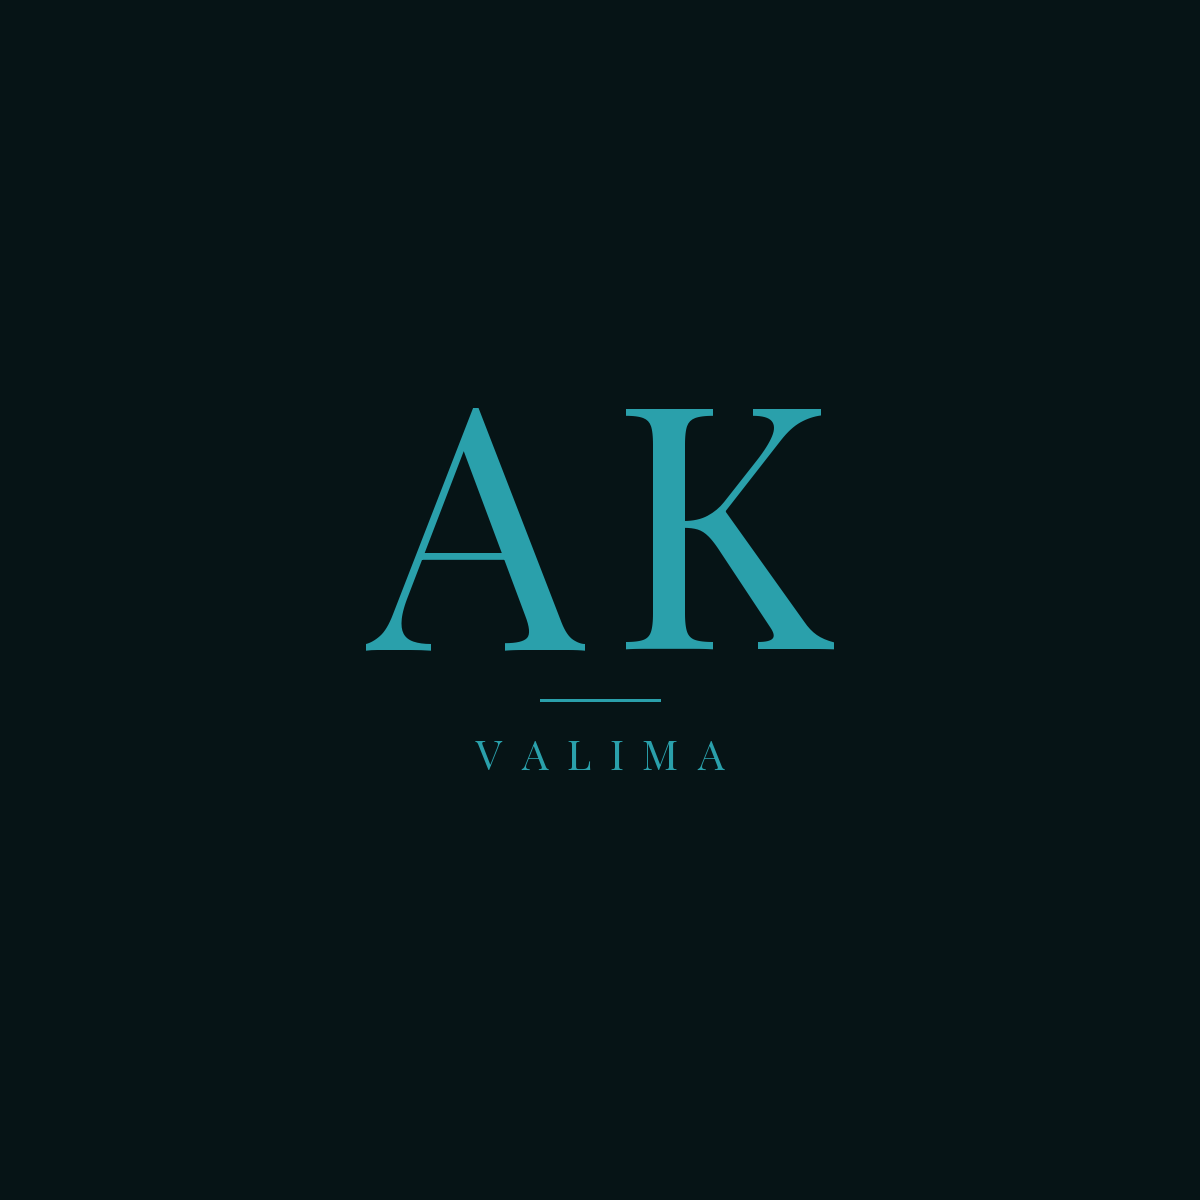
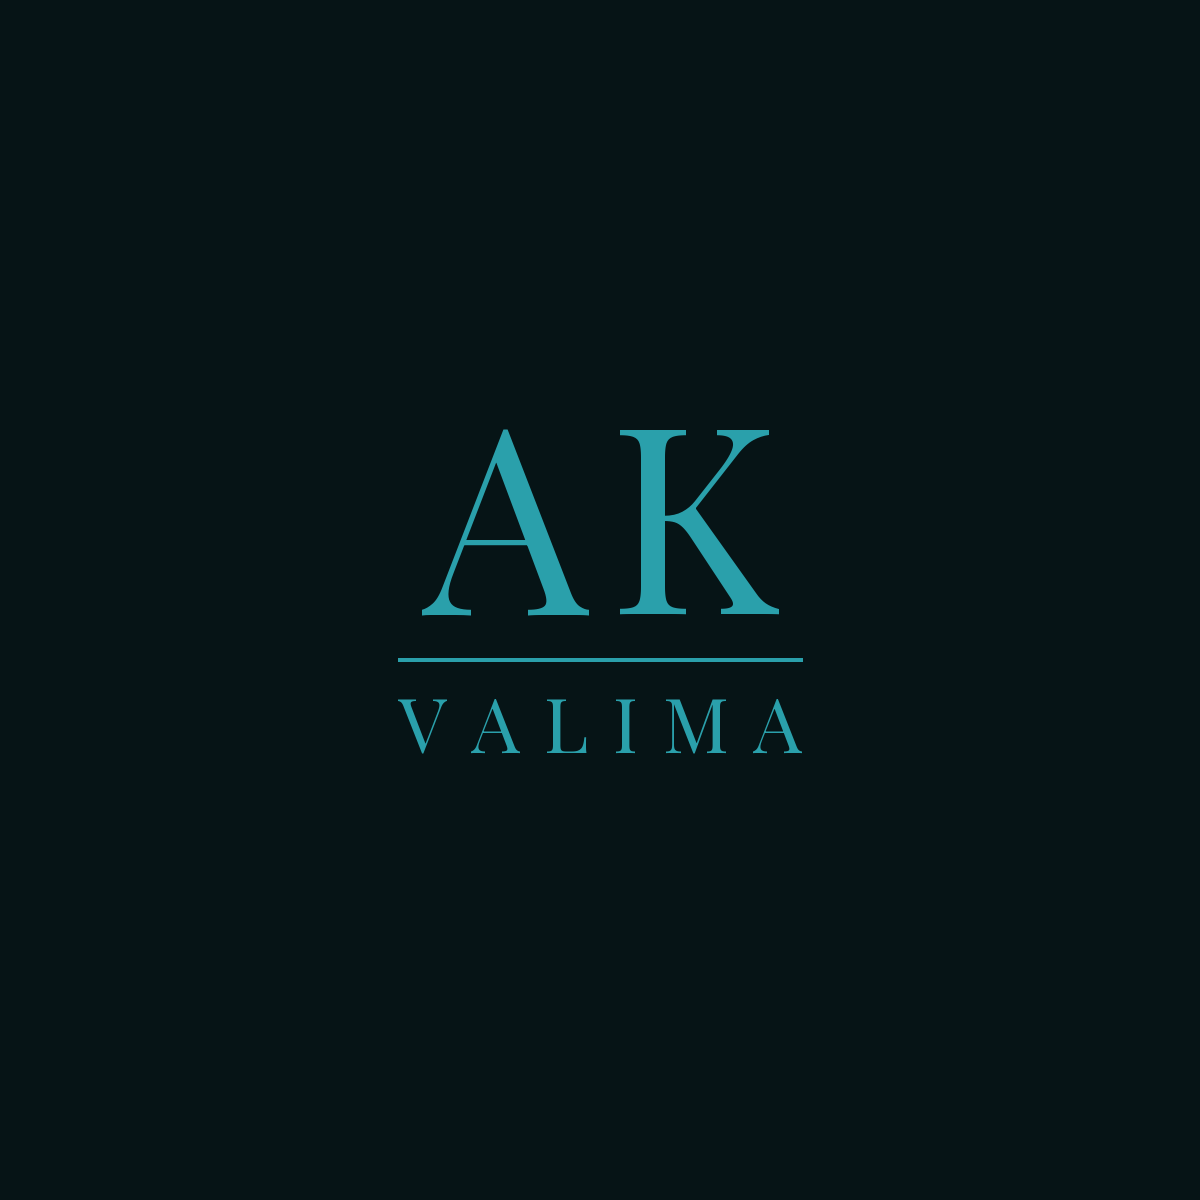
Scale OG preview rule and event title to match AK (#13)

diff --git a/index.html b/index.html
@@ -11,8 +11,8 @@
     <meta property="og:title" content="VALIMA · Adeel & Khadija">
     <meta property="og:description" content="You are invited to the Valima of Adeel Kamal Ahmad and Khadija Imran Butt. November 11, 2026 · Lahore.">
     <meta property="og:url" content="https://adeelkhadijavalima.com/">
-    <meta property="og:image" content="https://adeelkhadijavalima.com/assets/og-image.png">
-    <meta property="og:image:secure_url" content="https://adeelkhadijavalima.com/assets/og-image.png">
+    <meta property="og:image" content="https://adeelkhadijavalima.com/assets/og-image.png?v=2">
+    <meta property="og:image:secure_url" content="https://adeelkhadijavalima.com/assets/og-image.png?v=2">
     <meta property="og:image:type" content="image/png">
     <meta property="og:image:width" content="1200">
     <meta property="og:image:height" content="1200">
@@ -20,8 +20,8 @@
     <meta name="twitter:card" content="summary_large_image">
     <meta name="twitter:title" content="VALIMA · Adeel & Khadija">
     <meta name="twitter:description" content="You are invited to the Valima of Adeel Kamal Ahmad and Khadija Imran Butt. November 11, 2026 · Lahore.">
-    <meta name="twitter:image" content="https://adeelkhadijavalima.com/assets/og-image.png">
-    <link rel="image_src" href="https://adeelkhadijavalima.com/assets/og-image.png">
+    <meta name="twitter:image" content="https://adeelkhadijavalima.com/assets/og-image.png?v=2">
+    <link rel="image_src" href="https://adeelkhadijavalima.com/assets/og-image.png?v=2">
     <link rel="icon" href="favicon.ico?v=6" sizes="any">
     <link rel="icon" type="image/svg+xml" href="assets/favicon.svg?v=6">
     <link rel="icon" type="image/png" sizes="32x32" href="assets/favicon.png?v=6">
